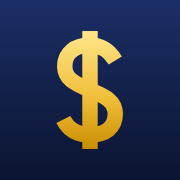
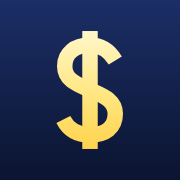
Laboratório: o cifrão do ícone em amarelo mais claro
A pedido do autor, que achou o cifrão escuro demais para ícone de aba: o degradê
vai de #fff7c9 a #ffd34d (antes, de #ffe58a a #c98e00); o círculo azul-marinho
fica. Os endereços dos ícones ganham ?v=claro, para o navegador não mostrar o
ícone anterior, que ele guarda.

Claude-Session: https://claude.ai/code/session_01Up1sG6mP6TagJLXrWP4Ckp

Changed region(s): [[0.3056, 0.1667, 0.6944, 0.8333]]

diff --git a/links/cotidiano/index.html b/links/cotidiano/index.html
@@ -13,10 +13,10 @@
 
   <meta name="theme-color" content="#06061a">
   <meta name="color-scheme" content="dark">
-  <link rel="icon" href="/my_test_333/links/assets/dolar.ico" sizes="16x16 32x32 48x48">
-  <link rel="icon" href="/my_test_333/links/assets/dolar-48.png" sizes="48x48" type="image/png">
-  <link rel="icon" href="/my_test_333/links/assets/dolar-192.png" sizes="192x192" type="image/png">
-  <link rel="apple-touch-icon" href="/my_test_333/links/assets/dolar-180.png">
+  <link rel="icon" href="/my_test_333/links/assets/dolar.ico?v=claro" sizes="16x16 32x32 48x48">
+  <link rel="icon" href="/my_test_333/links/assets/dolar-48.png?v=claro" sizes="48x48" type="image/png">
+  <link rel="icon" href="/my_test_333/links/assets/dolar-192.png?v=claro" sizes="192x192" type="image/png">
+  <link rel="apple-touch-icon" href="/my_test_333/links/assets/dolar-180.png?v=claro">
 
   <meta property="og:type" content="website">
   <meta property="og:locale" content="pt_BR">

diff --git a/links/en/everyday/index.html b/links/en/everyday/index.html
@@ -13,10 +13,10 @@
 
   <meta name="theme-color" content="#06061a">
   <meta name="color-scheme" content="dark">
-  <link rel="icon" href="/my_test_333/links/assets/dolar.ico" sizes="16x16 32x32 48x48">
-  <link rel="icon" href="/my_test_333/links/assets/dolar-48.png" sizes="48x48" type="image/png">
-  <link rel="icon" href="/my_test_333/links/assets/dolar-192.png" sizes="192x192" type="image/png">
-  <link rel="apple-touch-icon" href="/my_test_333/links/assets/dolar-180.png">
+  <link rel="icon" href="/my_test_333/links/assets/dolar.ico?v=claro" sizes="16x16 32x32 48x48">
+  <link rel="icon" href="/my_test_333/links/assets/dolar-48.png?v=claro" sizes="48x48" type="image/png">
+  <link rel="icon" href="/my_test_333/links/assets/dolar-192.png?v=claro" sizes="192x192" type="image/png">
+  <link rel="apple-touch-icon" href="/my_test_333/links/assets/dolar-180.png?v=claro">
 
   <meta property="og:type" content="website">
   <meta property="og:locale" content="en_US">

diff --git a/links/dinheiro/index.html b/links/dinheiro/index.html
@@ -13,10 +13,10 @@
 
   <meta name="theme-color" content="#06110a">
   <meta name="color-scheme" content="dark">
-  <link rel="icon" href="/my_test_333/links/assets/dolar.ico" sizes="16x16 32x32 48x48">
-  <link rel="icon" href="/my_test_333/links/assets/dolar-48.png" sizes="48x48" type="image/png">
-  <link rel="icon" href="/my_test_333/links/assets/dolar-192.png" sizes="192x192" type="image/png">
-  <link rel="apple-touch-icon" href="/my_test_333/links/assets/dolar-180.png">
+  <link rel="icon" href="/my_test_333/links/assets/dolar.ico?v=claro" sizes="16x16 32x32 48x48">
+  <link rel="icon" href="/my_test_333/links/assets/dolar-48.png?v=claro" sizes="48x48" type="image/png">
+  <link rel="icon" href="/my_test_333/links/assets/dolar-192.png?v=claro" sizes="192x192" type="image/png">
+  <link rel="apple-touch-icon" href="/my_test_333/links/assets/dolar-180.png?v=claro">
 
   <meta property="og:type" content="book">
   <meta property="og:locale" content="pt_BR">

diff --git a/links/money/index.html b/links/money/index.html
@@ -13,10 +13,10 @@
 
   <meta name="theme-color" content="#06110a">
   <meta name="color-scheme" content="dark">
-  <link rel="icon" href="/my_test_333/links/assets/dolar.ico" sizes="16x16 32x32 48x48">
-  <link rel="icon" href="/my_test_333/links/assets/dolar-48.png" sizes="48x48" type="image/png">
-  <link rel="icon" href="/my_test_333/links/assets/dolar-192.png" sizes="192x192" type="image/png">
-  <link rel="apple-touch-icon" href="/my_test_333/links/assets/dolar-180.png">
+  <link rel="icon" href="/my_test_333/links/assets/dolar.ico?v=claro" sizes="16x16 32x32 48x48">
+  <link rel="icon" href="/my_test_333/links/assets/dolar-48.png?v=claro" sizes="48x48" type="image/png">
+  <link rel="icon" href="/my_test_333/links/assets/dolar-192.png?v=claro" sizes="192x192" type="image/png">
+  <link rel="apple-touch-icon" href="/my_test_333/links/assets/dolar-180.png?v=claro">
 
   <meta property="og:type" content="book">
   <meta property="og:locale" content="en_US">

diff --git a/links/succeed.on.kindle/index.html b/links/succeed.on.kindle/index.html
@@ -13,10 +13,10 @@
 
   <meta name="theme-color" content="#050a18">
   <meta name="color-scheme" content="dark">
-  <link rel="icon" href="/my_test_333/links/assets/dolar.ico" sizes="16x16 32x32 48x48">
-  <link rel="icon" href="/my_test_333/links/assets/dolar-48.png" sizes="48x48" type="image/png">
-  <link rel="icon" href="/my_test_333/links/assets/dolar-192.png" sizes="192x192" type="image/png">
-  <link rel="apple-touch-icon" href="/my_test_333/links/assets/dolar-180.png">
+  <link rel="icon" href="/my_test_333/links/assets/dolar.ico?v=claro" sizes="16x16 32x32 48x48">
+  <link rel="icon" href="/my_test_333/links/assets/dolar-48.png?v=claro" sizes="48x48" type="image/png">
+  <link rel="icon" href="/my_test_333/links/assets/dolar-192.png?v=claro" sizes="192x192" type="image/png">
+  <link rel="apple-touch-icon" href="/my_test_333/links/assets/dolar-180.png?v=claro">
 
   <meta property="og:type" content="book">
   <meta property="og:locale" content="en_US">

diff --git a/links/sucesso.kindle/index.html b/links/sucesso.kindle/index.html
@@ -13,10 +13,10 @@
 
   <meta name="theme-color" content="#050a18">
   <meta name="color-scheme" content="dark">
-  <link rel="icon" href="/my_test_333/links/assets/dolar.ico" sizes="16x16 32x32 48x48">
-  <link rel="icon" href="/my_test_333/links/assets/dolar-48.png" sizes="48x48" type="image/png">
-  <link rel="icon" href="/my_test_333/links/assets/dolar-192.png" sizes="192x192" type="image/png">
-  <link rel="apple-touch-icon" href="/my_test_333/links/assets/dolar-180.png">
+  <link rel="icon" href="/my_test_333/links/assets/dolar.ico?v=claro" sizes="16x16 32x32 48x48">
+  <link rel="icon" href="/my_test_333/links/assets/dolar-48.png?v=claro" sizes="48x48" type="image/png">
+  <link rel="icon" href="/my_test_333/links/assets/dolar-192.png?v=claro" sizes="192x192" type="image/png">
+  <link rel="apple-touch-icon" href="/my_test_333/links/assets/dolar-180.png?v=claro">
 
   <meta property="og:type" content="book">
   <meta property="og:locale" content="pt_BR">
